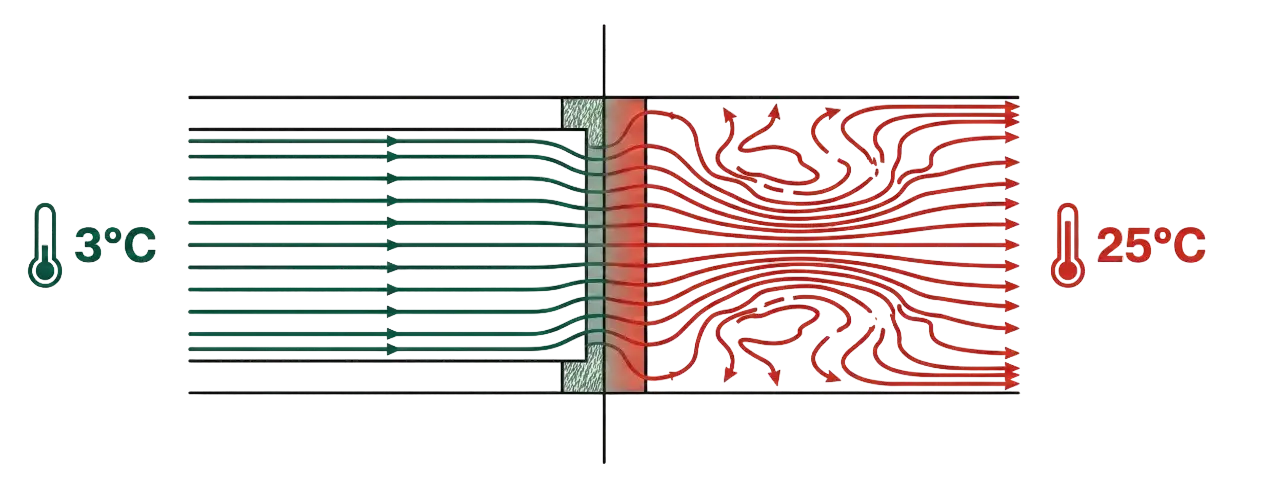
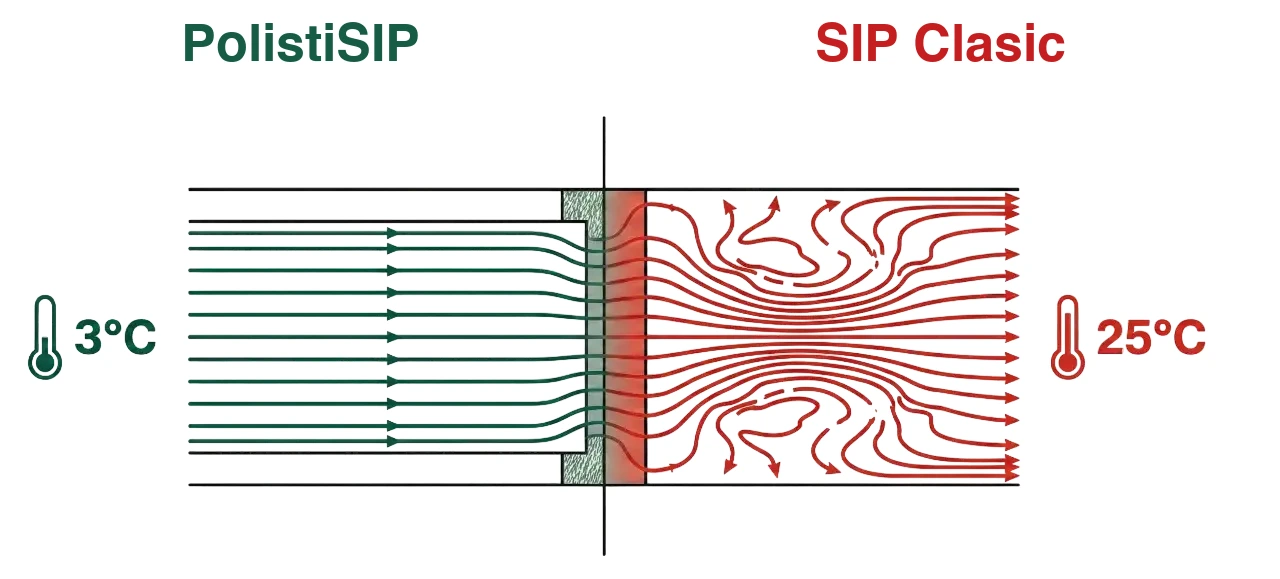
Diagrama punții termice își spune singură părțile: PolistiSIP la stânga, SIP Clasic la dreapta, randate în imagine

Changed region(s): [[0.0, 0.1848, 0.9375, 0.8624], [0.625, 0.0308, 0.8438, 0.1232], [0.125, 0.0308, 0.3438, 0.1232]]

diff --git a/countries/ro/produse/polistisip/index.html b/countries/ro/produse/polistisip/index.html
@@ -514,7 +514,7 @@
         </div>
       </div>
       <div class="media-frame">
-        <img src="../../images/polistisip/energy_joist.webp" alt="Comparație pont thermique — I-Joist STEICO vs structure traditionnelle">
+        <img src="../../images/polistisip/energy_joist.webp?v=2" alt="PolistiSIP față de SIP clasic: puntea termică la îmbinarea panourilor">
       </div>
     </div>
   </div>
